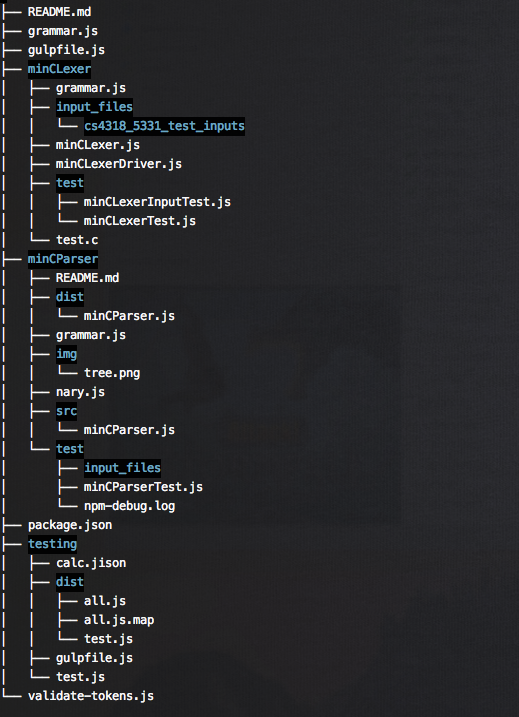
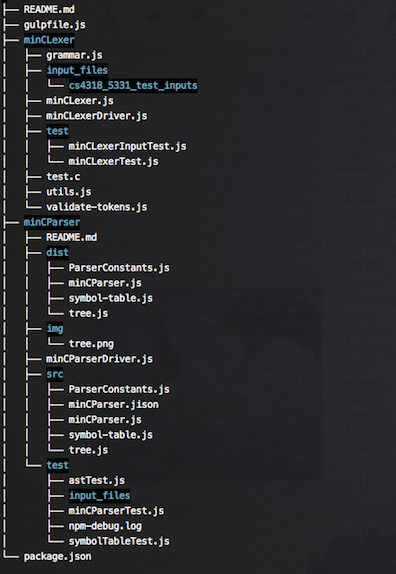
updating package.json with init/build. including pictures in readme

Changed region(s): [[0.0, 0.0, 0.5152, 0.9774]]

diff --git a/minCParser/README.md b/minCParser/README.md
@@ -5,8 +5,19 @@
 + Since it's built with ES6, there is a `build` process
 + Please try to use a UTF8 supported terminal if possible 
 
+
+
 ## Directories/Files
++ ![a](img/tree.png)
 + minCParser/test/ is for unit tests
 + minCParser/src/ contains the actual file before it's transpied
 + minCParser/dist/ contains files that browsers (nowadays) can render
+
+## Usage
++ run `npm run init` in the project root directory
++ use `node minCParserDrive.js filename` to run a file
+
+
+## Examples
++ ![ex1](img/ex1.png)
 
